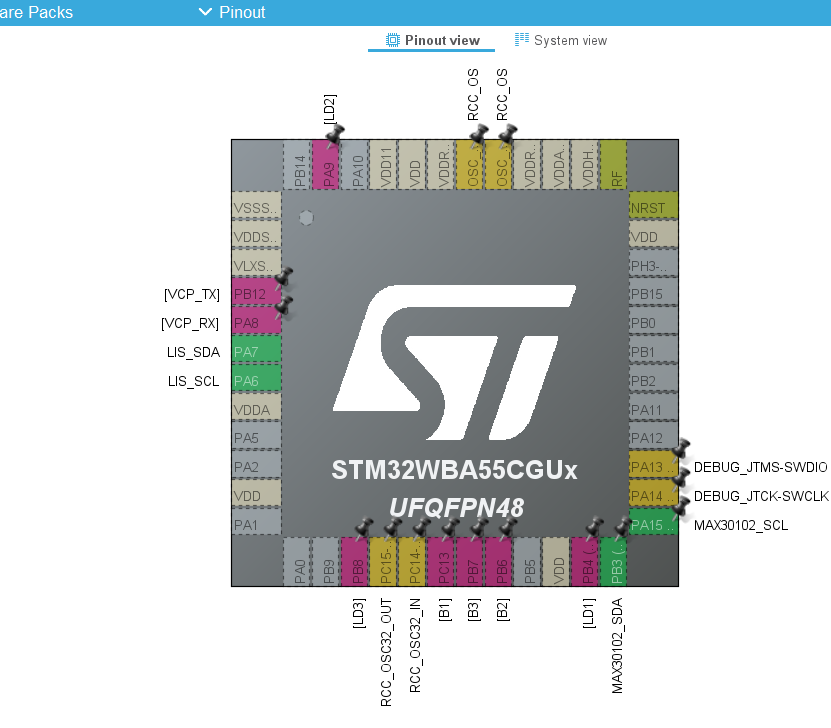
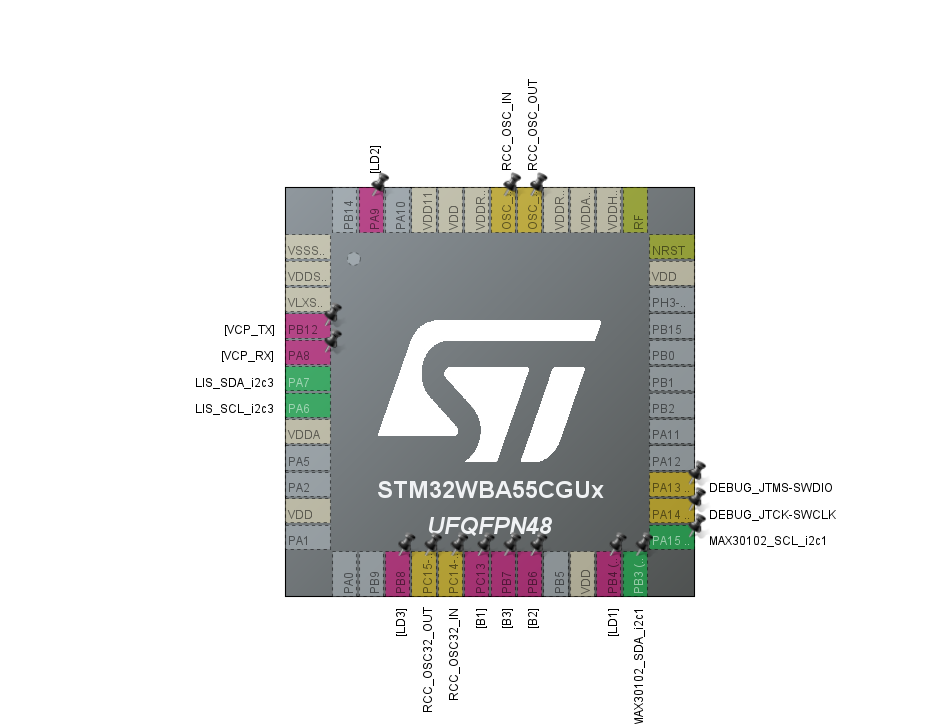
png och setup done

Changed region(s): [[0.0, 0.0, 1.0, 1.0]]

diff --git a/Core/Src/lis2dw12_orientation.c b/Core/Src/lis2dw12_orientation.c
@@ -82,7 +82,7 @@ static uint8_t whoamI, rst;
 static uint8_t tx_buffer[1000];
 
 /* Extern variables ----------------------------------------------------------*/
-extern I2C_HandleTypeDef hi2c2;
+extern I2C_HandleTypeDef hi2c3;
 /* Private functions ---------------------------------------------------------*/
 /*
  *   WARNING:
@@ -136,7 +136,7 @@ void lis2dw12_orientation(void)
   dev_ctx.write_reg = platform_write;
   dev_ctx.read_reg = platform_read;
   dev_ctx.mdelay = platform_delay;
-  dev_ctx.handle = &hi2c2; // Assuming hi2c2 is the I2C handle
+  dev_ctx.handle = &hi2c3; 
 
   /* Wait sensor boot time */
   platform_delay(BOOT_TIME);

diff --git a/Core/Src/main.c b/Core/Src/main.c
@@ -71,7 +71,7 @@ static void MX_GPIO_Init(void);
 static void MX_I2C1_Init(void);
 static void MX_I2C3_Init(void);
 static void MX_ICACHE_Init(void);
-static void MX_USART2_UART_Init(void);
+//static void MX_USART2_UART_Init(void);
 /* USER CODE BEGIN PFP */
 
 /* USER CODE END PFP */
@@ -113,7 +113,7 @@ int main(void)
   MX_I2C1_Init();
   MX_I2C3_Init();
   MX_ICACHE_Init();
-  MX_USART2_UART_Init();
+  //MX_USART2_UART_Init();
   /* USER CODE BEGIN 2 */
   uart_Init();
   FIFO_LED_DATA fifoledData;
